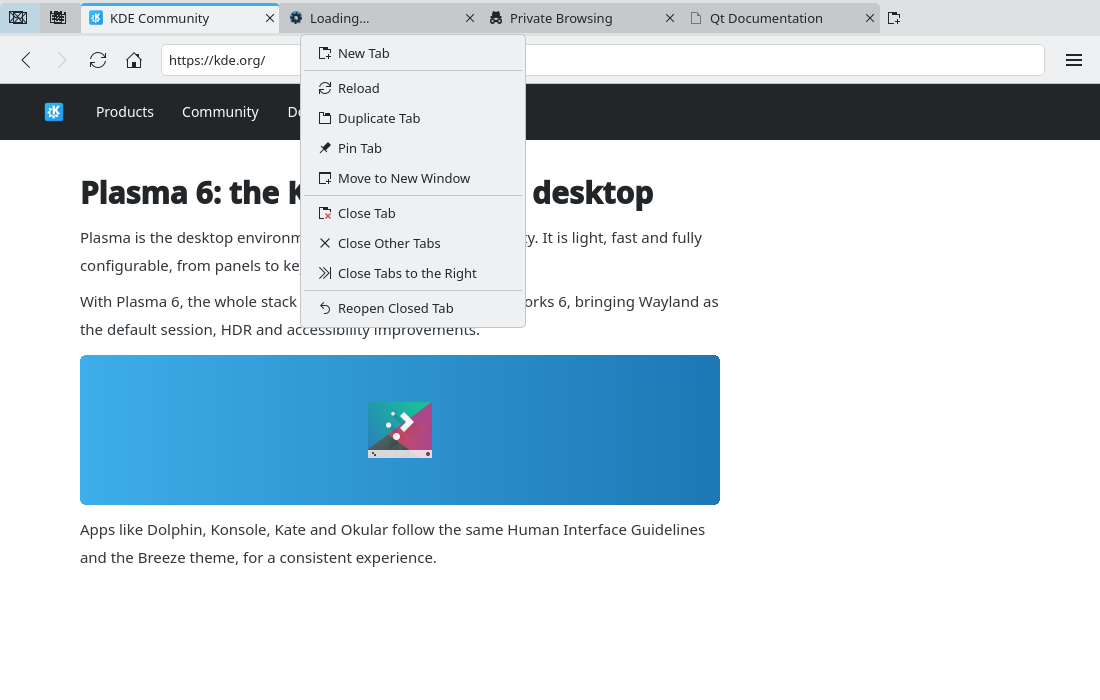
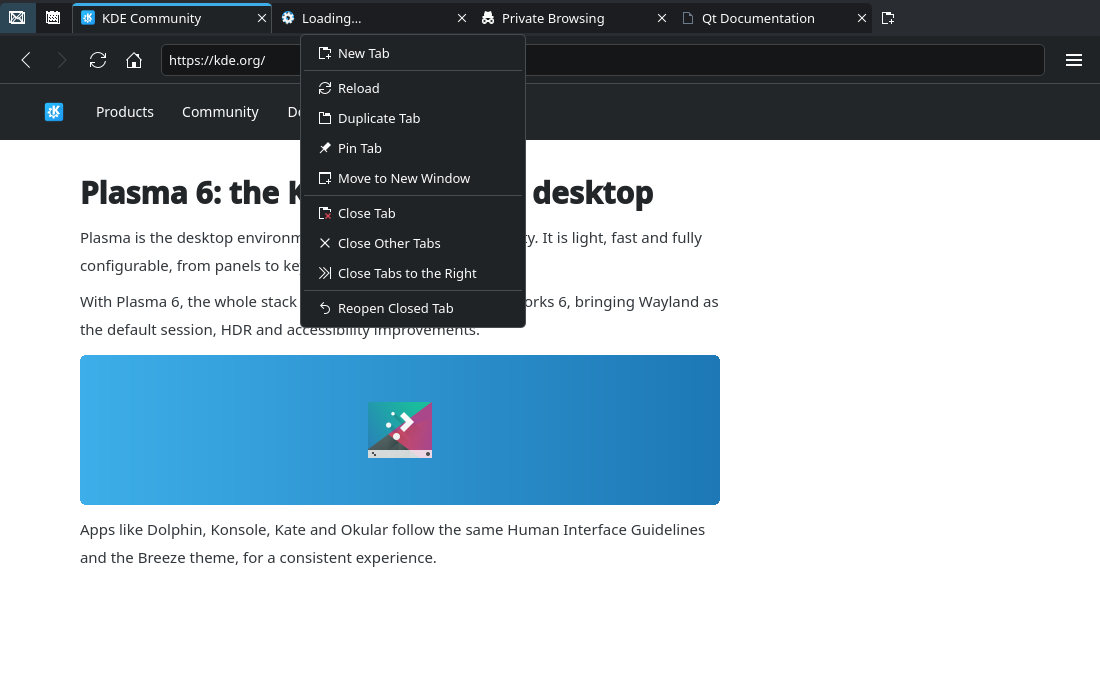
docs: add tab sizing prototypes for #83

Changed region(s): [[0.0, 0.0, 1.0, 0.48]]

diff --git a/prototypes/common/BrowserFrame.qml b/prototypes/common/BrowserFrame.qml
@@ -14,6 +14,13 @@ Rectangle {
         { title: "Wikipedia, the free encyclopedia", icon: "internet-web-browser" }
     ]
     property int currentTab: 0
+    // Width of every unpinned tab (#83: fixed 240, shrinking to 120).
+    property int tabWidth: 200
+    // #83: the tabs overflow at the minimum width; show the scroll arrows.
+    property bool tabScrollButtons: false
+    property real tabScrollX: 0
+    property bool tabScrollLeftEnabled: true
+    property bool tabScrollRightEnabled: true
     property string address: "https://kde.org/"
     property bool addressFocused: false
     property bool privateWindow: false
@@ -65,11 +72,15 @@ Rectangle {
                     id: tabBar
                     currentIndex: frame.currentTab
                     background: null
+                    clip: true
+                    Layout.fillWidth: frame.tabScrollButtons
+                    Layout.minimumWidth: 0
+                    Component.onCompleted: if (frame.tabScrollButtons) Qt.callLater(function() { tabBar.contentItem.contentX = frame.tabScrollX })
                     Repeater {
                         model: frame.tabs
                         delegate: TabButton {
                             required property var modelData
-                            width: modelData.pinned ? 40 : 200
+                            width: modelData.pinned ? 36 : frame.tabWidth
                             display: modelData.pinned ? AbstractButton.IconOnly : AbstractButton.TextBesideIcon
                             icon.name: modelData.private ? "view-private" : (modelData.icon || "text-html")
                             icon.width: 16
@@ -119,12 +130,29 @@ Rectangle {
                 }
 
                 ToolButton {
+                    visible: frame.tabScrollButtons
+                    enabled: frame.tabScrollLeftEnabled
+                    display: AbstractButton.IconOnly
+                    icon.name: "go-previous-symbolic"
+                    icon.width: 16
+                    icon.height: 16
+                }
+                ToolButton {
+                    visible: frame.tabScrollButtons
+                    enabled: frame.tabScrollRightEnabled
+                    display: AbstractButton.IconOnly
+                    icon.name: "go-next-symbolic"
+                    icon.width: 16
+                    icon.height: 16
+                }
+                ToolButton {
+                    Layout.leftMargin: 2
                     display: AbstractButton.IconOnly
                     icon.name: "tab-new"
                     icon.width: 16
                     icon.height: 16
                 }
-                Item { Layout.fillWidth: true }
+                Item { visible: !frame.tabScrollButtons; Layout.fillWidth: true }
             }
         }
 

diff --git a/prototypes/83c-tab-sizing-scroll.qml b/prototypes/83c-tab-sizing-scroll.qml
@@ -1,0 +1,28 @@
+// #83 Tab sizing — tabs at the 120 px minimum overflow: scroll arrows appear before the New Tab button.
+import QtQuick
+import QtQuick.Controls
+import "common"
+
+BrowserFrame {
+    tabs: [
+        { title: "Mail", icon: "mail-message", pinned: true },
+        { title: "KDE Community", icon: "kde" },
+        { title: "Qt Documentation", icon: "qtcreator" },
+        { title: "Planet KDE", icon: "kde" },
+        { title: "LWN.net", icon: "text-html" },
+        { title: "Phoronix", icon: "text-html" },
+        { title: "Wikipedia, the free encyclopedia", icon: "internet-web-browser" },
+        { title: "Fedora Project", icon: "fedora-logo-icon" },
+        { title: "ArchWiki", icon: "text-html" },
+        { title: "Flathub", icon: "text-html" },
+        { title: "KDE Developer", icon: "kde" },
+        { title: "Kondor Browser on GitHub", icon: "text-html" },
+        { title: "DistroWatch", icon: "text-html" },
+        { title: "freedesktop.org", icon: "text-html" }
+    ]
+    currentTab: 8
+    tabWidth: 120
+    tabScrollButtons: true
+    tabScrollX: 300
+    FakePage {}
+}

diff --git a/prototypes/83b-tab-sizing-shrunk.qml b/prototypes/83b-tab-sizing-shrunk.qml
@@ -1,0 +1,21 @@
+// #83 Tab sizing — more tabs than fit at 240 px: they all shrink by the same amount.
+import QtQuick
+import QtQuick.Controls
+import "common"
+
+BrowserFrame {
+    tabs: [
+        { title: "Mail", icon: "mail-message", pinned: true },
+        { title: "KDE Community", icon: "kde" },
+        { title: "Qt Documentation", icon: "qtcreator" },
+        { title: "Planet KDE", icon: "kde" },
+        { title: "LWN.net", icon: "text-html" },
+        { title: "Wikipedia, the free encyclopedia", icon: "internet-web-browser" },
+        { title: "Fedora Project", icon: "fedora-logo-icon" },
+        { title: "ArchWiki", icon: "text-html" }
+    ]
+    currentTab: 2
+    // (1100 − 36 pinned − 36 New Tab button) / 7 ≈ 146 px
+    tabWidth: 146
+    FakePage {}
+}

diff --git a/prototypes/83-tab-sizing.qml b/prototypes/83-tab-sizing.qml
@@ -1,0 +1,15 @@
+// #83 Tab sizing — a few tabs: every unpinned tab is 240 px wide, whatever its title.
+import QtQuick
+import QtQuick.Controls
+import "common"
+
+BrowserFrame {
+    tabs: [
+        { title: "Mail", icon: "mail-message" },
+        { title: "KDE Community - Powerful, multi-platform, and for everyone", icon: "kde" },
+        { title: "Qt Documentation", icon: "qtcreator" }
+    ]
+    currentTab: 1
+    tabWidth: 240
+    FakePage {}
+}

diff --git a/prototypes/README.md b/prototypes/README.md
@@ -45,6 +45,7 @@ Tips when editing:
 | #44 Address bar: visit or search | `44-address-visit-or-search.qml` |
 | #53 About window | `53-about.qml`, `53b-about-components.qml`, `53c-about-authors.qml` (shared mock in `common/AboutDialogMock.qml`) |
 | #12 Tab management | `12-tab-management.qml` |
+| #83 Tab sizing and scroll arrows | `83-tab-sizing.qml`, `83b-tab-sizing-shrunk.qml`, `83c-tab-sizing-scroll.qml` (BrowserFrame `tabWidth` / `tabScrollButtons`) |
 | #13 Page context menu | `13-page-context-menu.qml` |
 | #14 Multiple windows | `14-private-window.qml`, `00-main-menu.qml` |
 | #16 Developer tools | `16-devtools.qml` |
